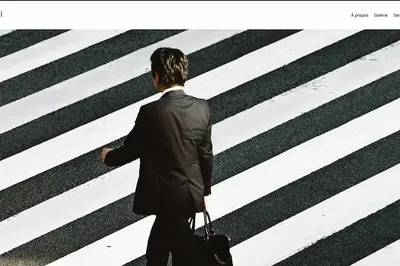
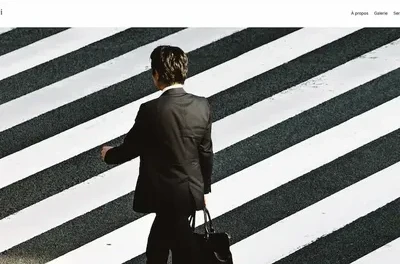
fix: contraste du project-number pour l'accessibilité

diff --git a/css/style.css b/css/style.css
@@ -611,7 +611,7 @@ nav.menu-open {
   font-family: "Playfair Display", serif;
   font-weight: 800;
   font-size: 2.5rem;
-  color: var(--border);
+  color: var(--text-muted);
   line-height: 1;
 }
 
@@ -639,6 +639,7 @@ nav.menu-open {
 .project-img--inset {
   width: calc(100% - 3rem);
   margin: 0 1.5rem;
+  object-position: center top;
 }
 .project-title {
   font-family: "Playfair Display", serif;